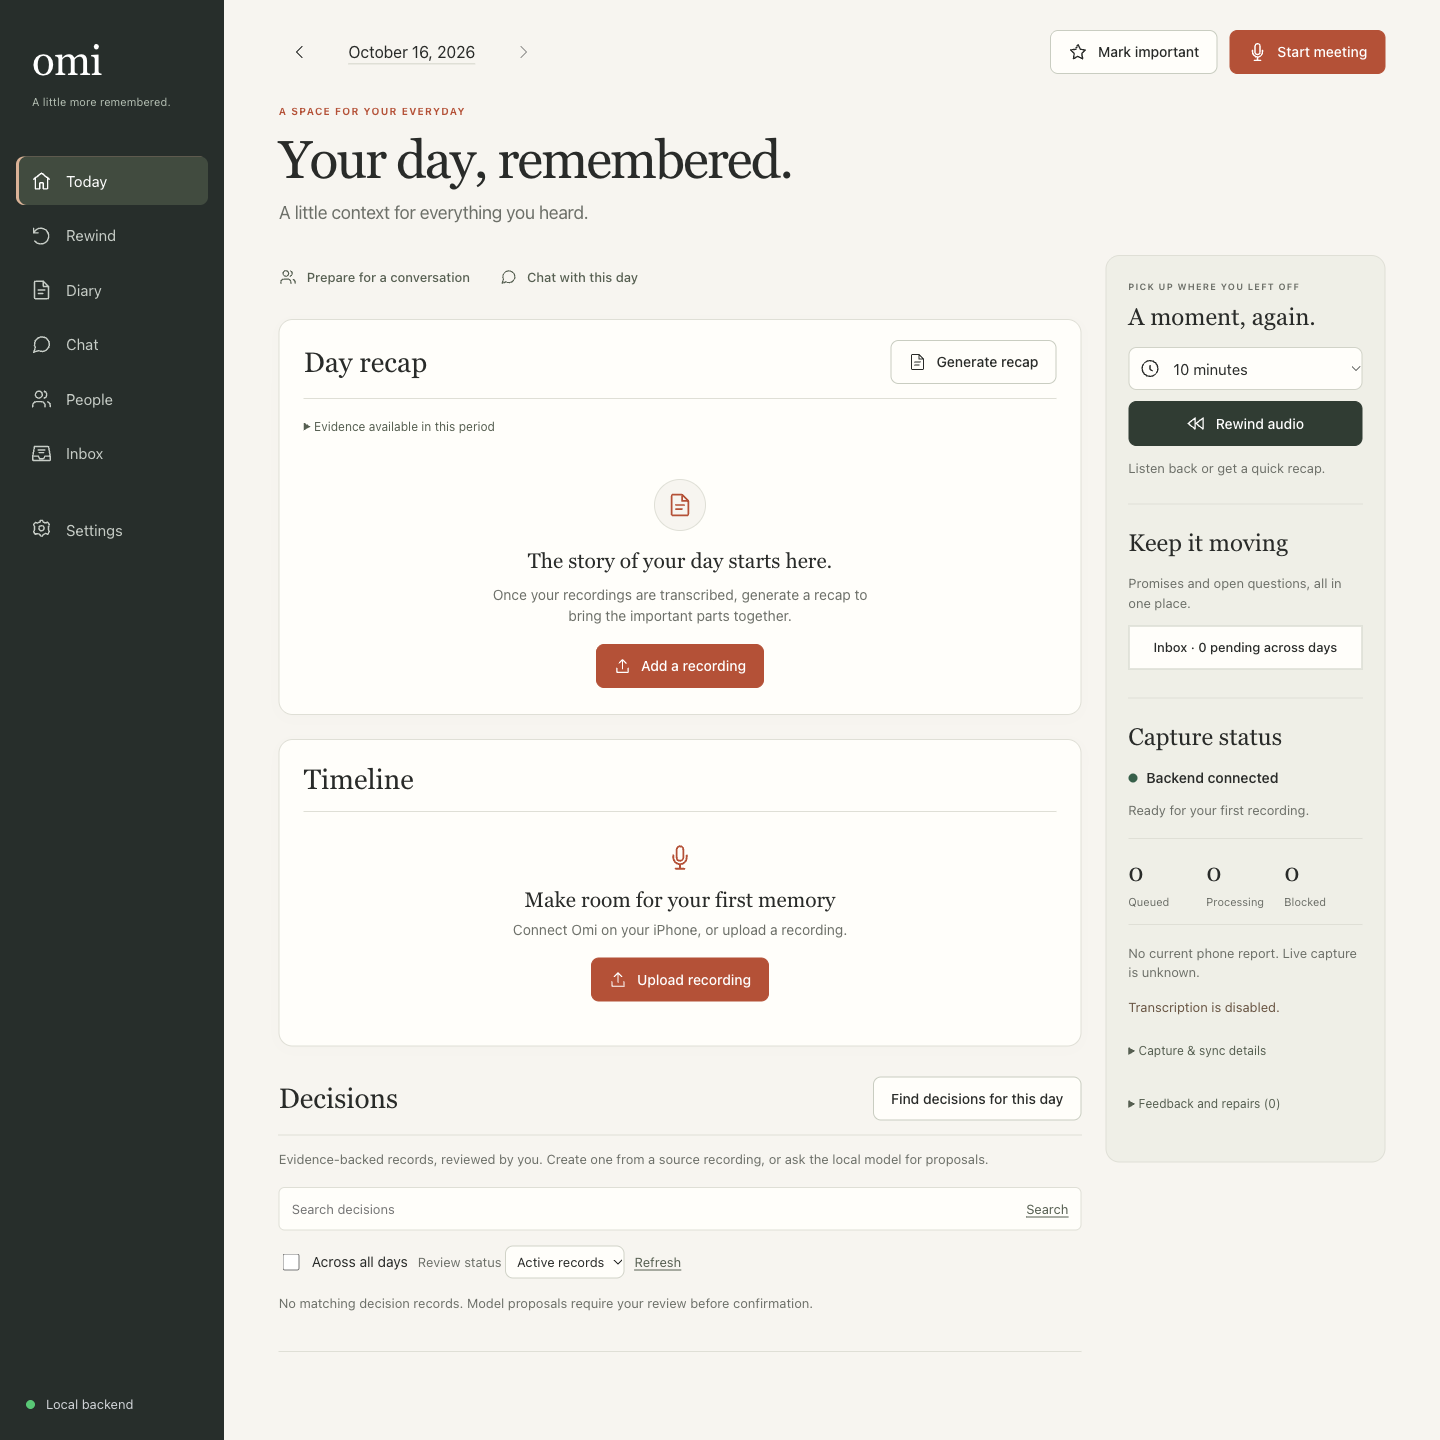
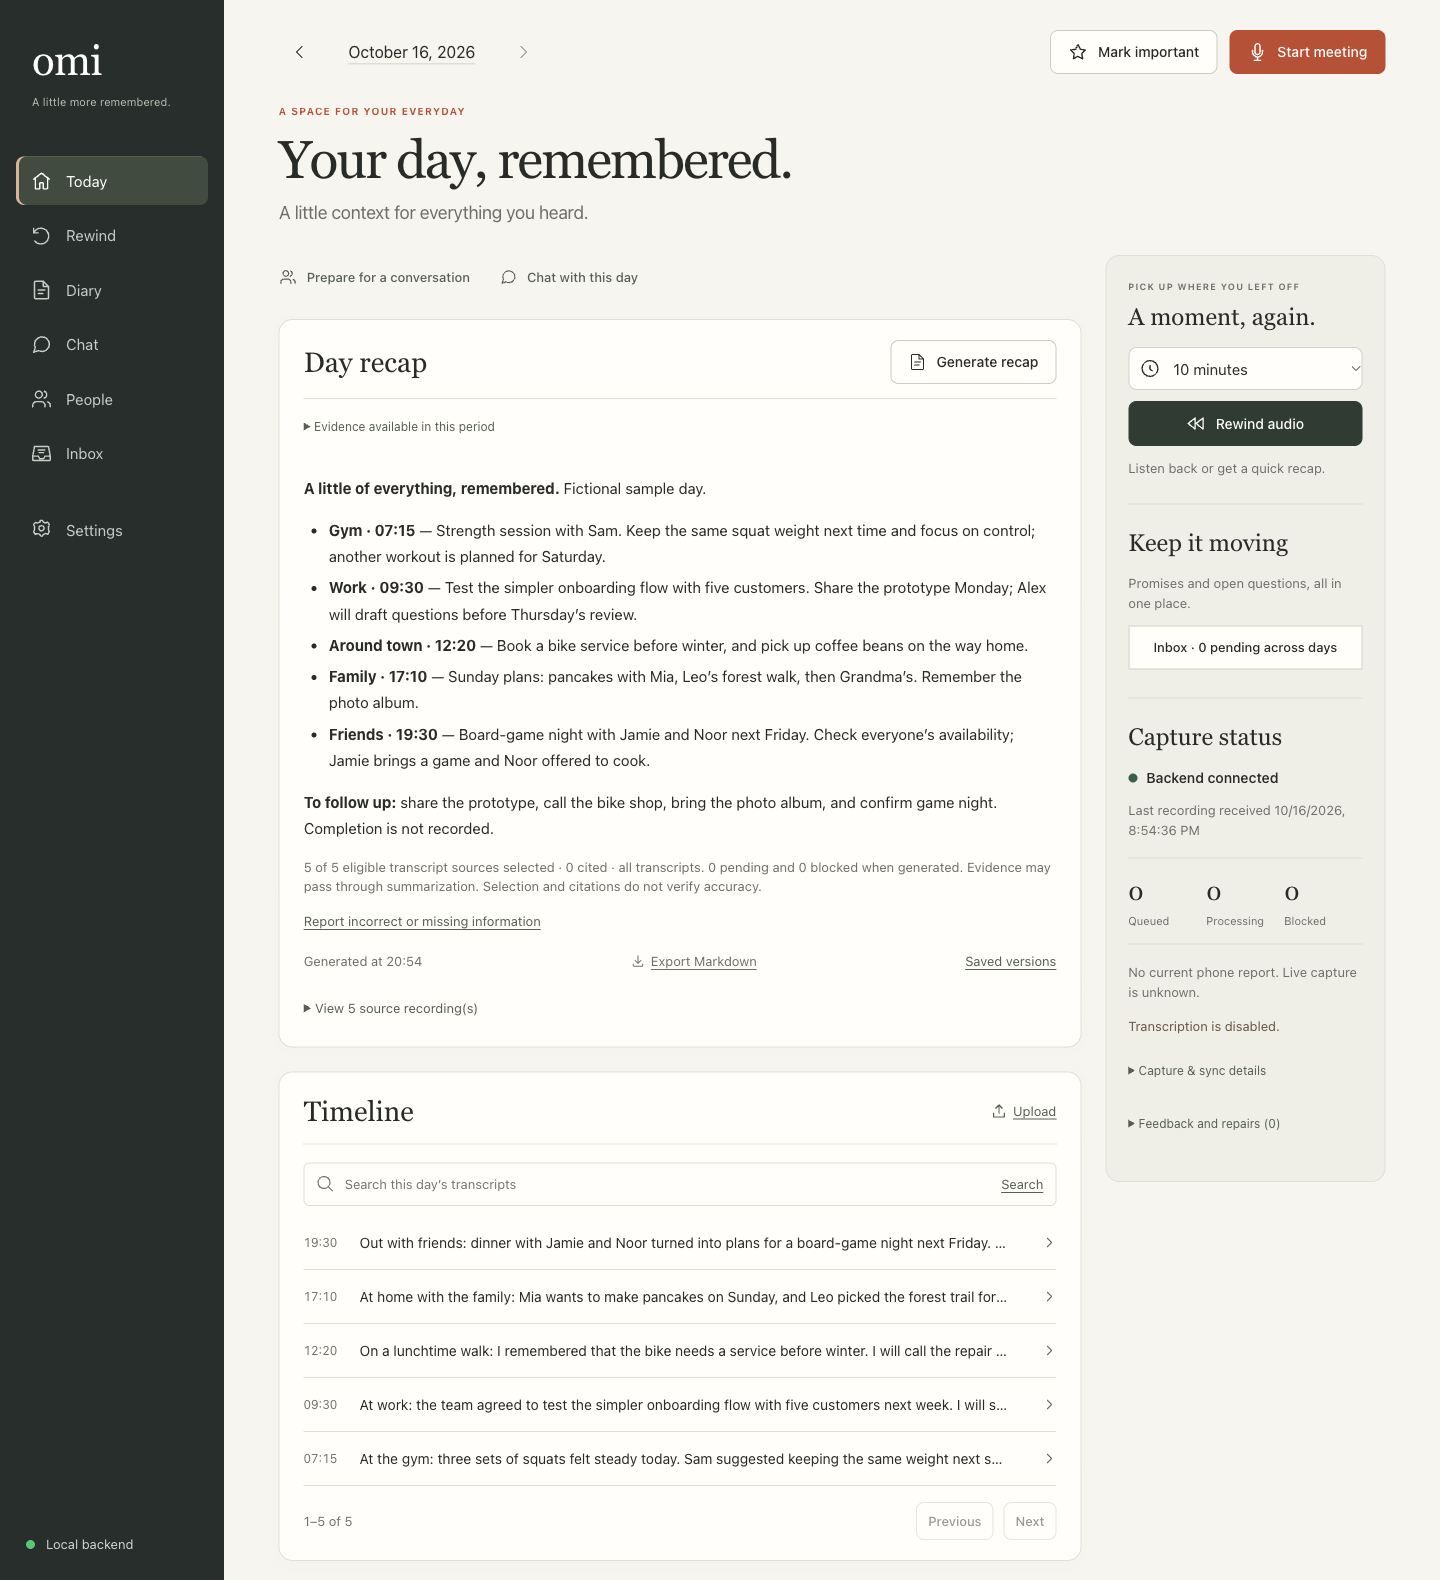
Show mixed everyday sample data in README screenshot

diff --git a/README.md b/README.md
@@ -4,9 +4,9 @@ A private audio memory system: Omi pendant → iPhone → your backend and local
 
 Direct capture needs no Omi account or cloud AI subscription. Existing hosted Omi transcripts can optionally be imported. An optional official-app audio webhook receiver is also available; current upstream sends it from Omi’s backend, so a phone-only LAN/VPN connection is insufficient.
 
-![Omi Local web app showing the Today dashboard with day recap, timeline, rewind controls, and capture status](docs/images/web-app.png)
+![Omi Local Today dashboard with a sample day recap and recordings from the gym, work, errands, family time, and dinner with friends](docs/images/web-app.png)
 
-*The Today dashboard with an empty archive.*
+*The Today dashboard with fictional sample recordings from the gym, work, everyday errands, home with family, and time out with friends.*
 
 ## Features
 
